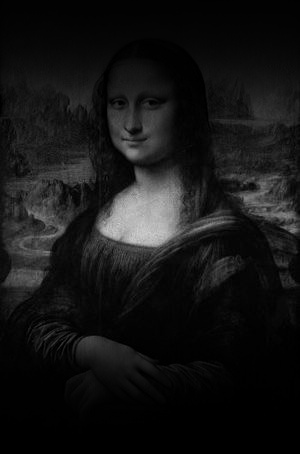
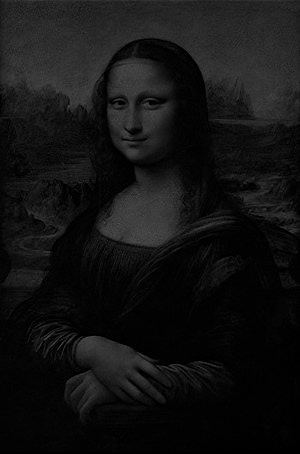
Complete q5 and q6

diff --git a/q6.py b/q6.py
@@ -14,7 +14,7 @@ def IdealFilter(f):
 
 	for row in range(N):
 		for col in range(M):
-			if D(row,col,N,M)<=D0:
+			if D(row,col,N,M)>=D0:
 				H[row][col]=1
 
 	G=np.multiply(H,f)
@@ -30,7 +30,7 @@ def ButterworthFilter(f):
 
 	for row in range(N):
 		for col in range(M):
-			H[row][col]=1/(1+(D(row,col,N,M)/D0)**(2*n))
+			H[row][col]=1-(1/(1+(D(row,col,N,M)/D0)**(2*n)))
 
 	G=np.multiply(H,f)
 	return G
@@ -43,7 +43,7 @@ def GaussianFilter(f):
 
 	for row in range(N):
 		for col in range(M):
-			H[row][col]=np.exp(-D(row,col,N,M)**2/(2*D0**2))
+			H[row][col]=1-np.exp(-D(row,col,N,M)**2/(2*D0**2))
 
 	G=np.multiply(H,f)
 	return G
@@ -60,7 +60,7 @@ if __name__=='__main__':
 	g=IdealFilter(f)
 	final1=np.fft.ifft2(g).real
 
-	cv2.imwrite('q5_output_ideal.jpg',final1)
+	cv2.imwrite('q6_output_ideal.jpg',final1)
 
 	#butterworth low pass filter
 
@@ -68,7 +68,7 @@ if __name__=='__main__':
 	g=ButterworthFilter(f)
 	final2=np.fft.ifft2(g).real
 
-	cv2.imwrite('q5_output_butterworth.jpg',final2)
+	cv2.imwrite('q6_output_butterworth.jpg',final2)
 
 	#gaussian low pass filter
 
@@ -76,6 +76,6 @@ if __name__=='__main__':
 	g=GaussianFilter(f)
 	final3=np.fft.ifft2(g).real
 
-	cv2.imwrite('q5_output_gaussian.jpg',final3)
+	cv2.imwrite('q6_output_gaussian.jpg',final3)
 
 
